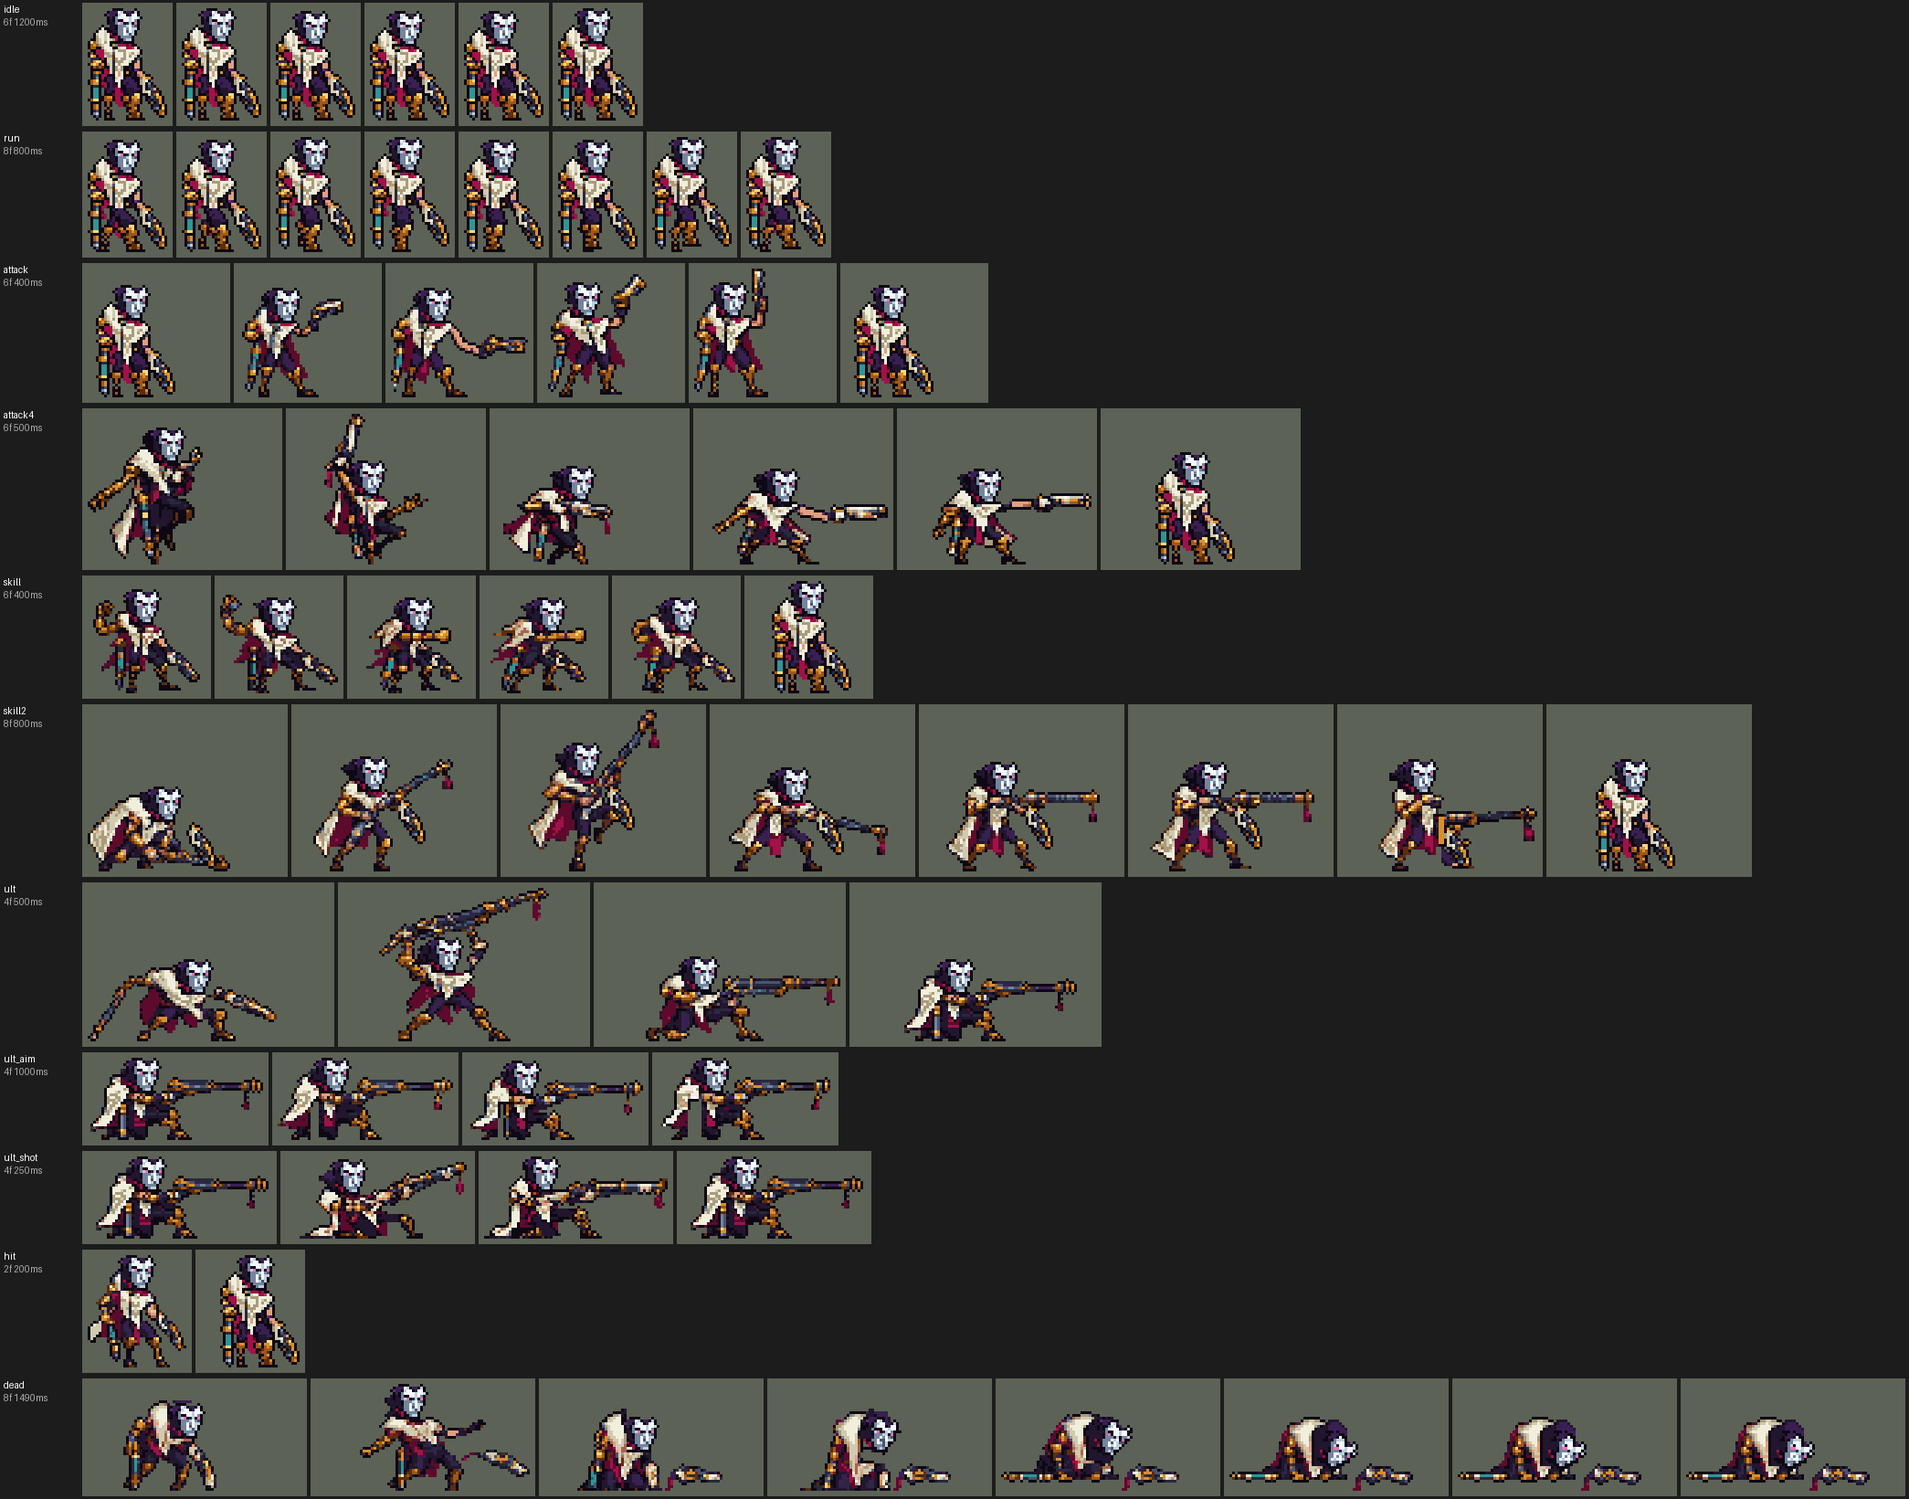
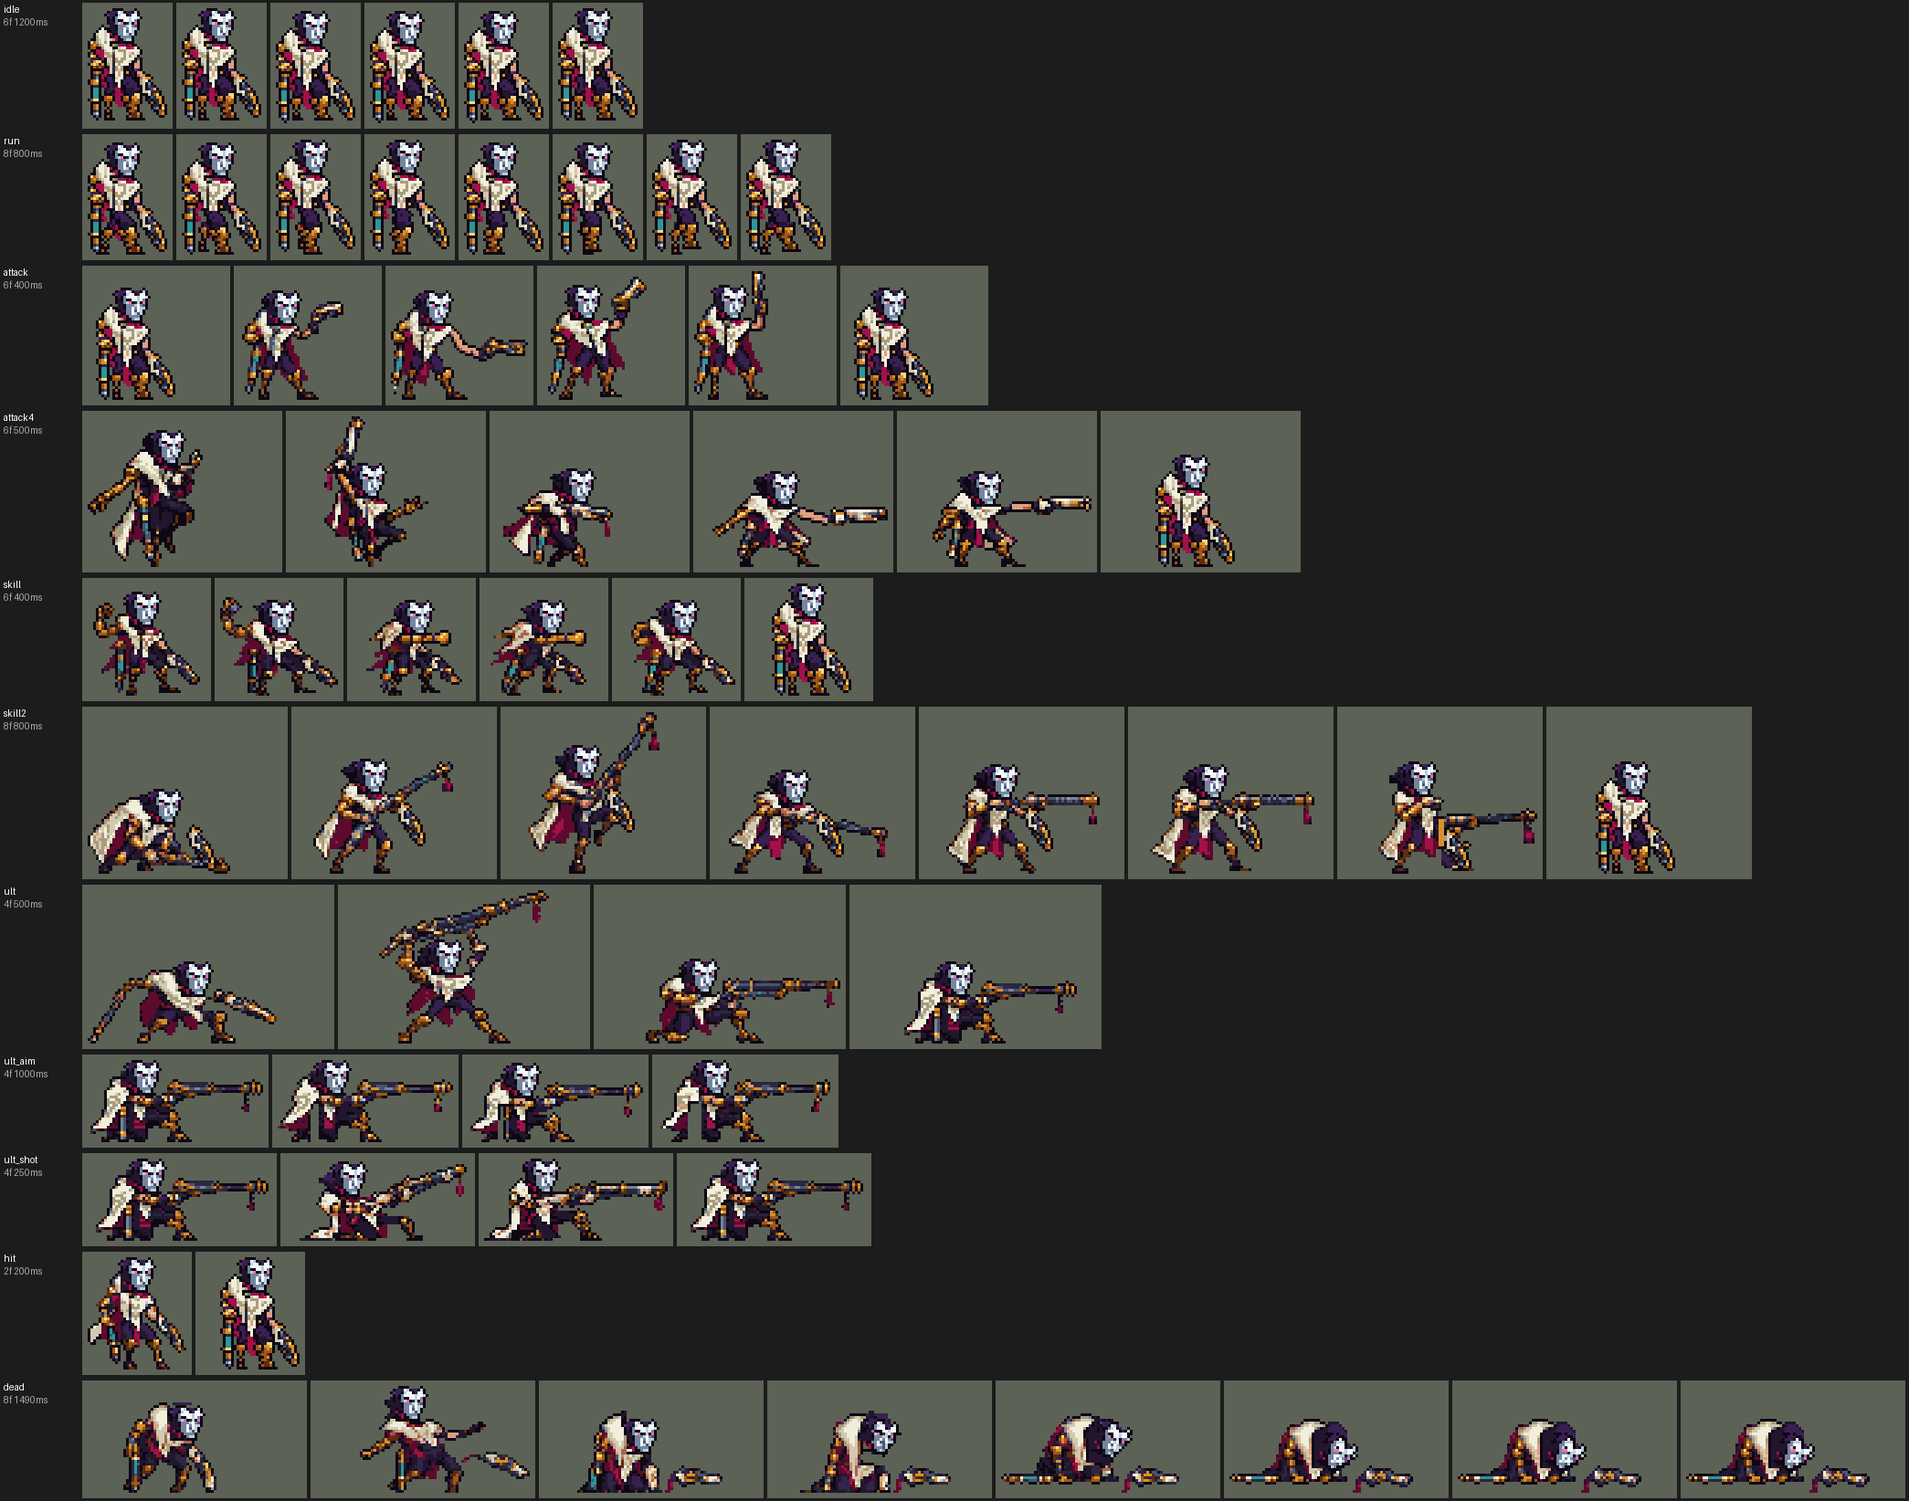
Jhin: the breathing seam in the boots, the cane and Whisper go down whole
The user: 「烬是模型上下摆动导致有点微小的变形」, then 「烬ok」. The idle's seam under the shoulders (the user's pick A of
four after the knee seam cut the cane's bands and Whisper's barrel) squeezed his arms, cape and shoulder pads a row
each breath. Now Garen's way: the seam low in the boots (pivot rows 9/10: 1 square of opacity and 3 of colour differ
under the hips), the soles stay, and import_native.py's new BOB_CARRY moves the props held in his hands down whole
(the cane left of his legs, pivot columns -11 and less; Whisper's barrel right of them, +6 and more) so no seam cuts
them. Previews rebuilt.

diff --git a/tools/art/import_native.py b/tools/art/import_native.py
@@ -354,12 +354,13 @@ BOB = {("yasuo", "idle"): (-2, [2, 3, 4]),
        # Ryze (second design, tools/art/design_ryze_v2.py): the seam in the boot shafts, rows 7/8 under the pivot (one
        # square differs); his hands hang to the belt
        ("ryze", "idle"): (7, [2, 3, 4]),
-       # Jhin: the cane and Whisper reach the ground, so a seam in the legs cuts them - at the knees the cane's bands
+       # Jhin: the cane and Whisper reach the ground, so a seam in the legs cut them - at the knees the cane's bands
        # and Whisper's slanted barrel stepped a row each breath (the user: 「上下摆动导致模型变形 盖伦就没这问题」); the
-       # seam runs under his shoulders (rows 77/78 of the design: no square of the silhouette and 12 of colour differ):
-       # the head, the collar, the shoulders and the cape's top sink a row, the hands, the cane, Whisper and the legs
-       # stay (the user's pick A of four)
-       ("jhin", "idle"): (-11, [2, 3, 4]),
+       # seam under his shoulders that followed (the user's pick A of four) squeezed his arms and cape a row (「烬是模型
+       # 上下摆动导致有点微小的变形」, 2026-10-04). Now Garen's way: the seam low in the boots (pivot rows 9/10: 1 square
+       # of opacity and 3 of colour differ, the fewest under the hips), the soles stay, and the cane and Whisper go down
+       # with his hands whole (BOB_CARRY)
+       ("jhin", "idle"): (9, [2, 3, 4]),
        # Zilean floats: the seam low in the robe under the clock's pendulum (rows 94/95 of the design: the same width,
        # 11 squares of colour differ); the hem and his dangling feet stay
        ("zilean", "idle"): (6, [2, 3, 4]),
@@ -371,6 +372,10 @@ BOB = {("yasuo", "idle"): (-2, [2, 3, 4]),
        # (4-8 squares of opacity); the seam under the knees' red bands (rows 71/72 of the cell: 4 squares of opacity
        # and 9 of colour differ) keeps the bands whole, the boots lose their top row while he breathes
        ("rakan", "idle"): (7, [2, 3, 4])}
+# (hero, tag): column ranges from the pivot (None: to the edge) that a BOB moves down whole, under its seam too - props
+# held in the hands that reach the ground, apart from the legs below the seam. Jhin: the cane left of his legs (pivot
+# columns -11 and less), Whisper's barrel right of them (+6 and more; the right sole ends at +5)
+BOB_CARRY = {("jhin", "idle"): ((None, -11), (6, None))}
 # (Aatrox had (8, [2, 3, 4]): his greatsword hangs to five rows over the soles, so every row seam over the boots cuts the
 # blade, and the seam across the boots (rows 96/97) cut their middle row 97 out - both boots squashed and their lights
 # blinked each breath (the frame audit, 2026-10-04). rig_aatrox.py now draws the breath in idle 3-5 with a seam per
@@ -724,7 +729,7 @@ def step(hero, sheet):
 
 def breathe(hero, sheet):
     """BOB and NECK: move the upper body of the listed slots down a row (after the retouch, which is drawn on the
-    frame before it moves)."""
+    frame before it moves); BOB_CARRY's columns go down whole, under the seam too."""
     for (h, tag), (y0, slots) in list(BOB.items()) + list(NECK.items()):
         if h != hero or tag not in sheet:
             continue
@@ -734,6 +739,13 @@ def breathe(hero, sheet):
             b = a.copy()
             b[1:cut + 1] = a[0:cut]
             b[0] = 0
+            if (h, tag) in BOB and (h, tag) in BOB_CARRY:
+                pc = a.shape[1] // 2
+                for lo, hi in BOB_CARRY[(h, tag)]:
+                    c0 = 0 if lo is None else max(0, pc + lo)
+                    c1 = a.shape[1] if hi is None else min(a.shape[1], pc + hi + 1)
+                    b[1:, c0:c1] = a[:-1, c0:c1]
+                    b[0, c0:c1] = 0
             sheet[tag][k] = (b, ms)
 
 

diff --git a/README.md b/README.md
@@ -94,7 +94,7 @@
 ![凯南演示：跑进场，Q 奥义！千鸟：爪子一闪，裹着电光的手里剑飞出去打中德莱厄斯，他头顶亮起一格闪电印记；连招接 W 电刃：凯南脚下炸开一圈电弧，德莱厄斯被电到，印记亮到两格；E 雷铠：原地一闪，凯南化作闪电球冲到他身前，碰到他叠满三层，德莱厄斯被两道闪电柱定住（眩晕）；两下普攻，第二下是第五次的强化手里剑（紫色电光）；盖伦走过来，R 万雷天牢引：凯南身边升起紫色雷云和金色手里剑的雷暴，每 0.5 秒劈中圈里的英雄、叠印记，第三下两人一起眩晕，德莱厄斯倒下](docs/preview/league_kennen_showcase.gif?v=1003arm)
 ![蔚演示：跑进场，Q 强能冲拳：原地蓄力，拉到身侧的拳套亮起蓝光，脚下扬起尘土冲出去，撞停德莱厄斯、把他击退，爆裂护盾在她身上亮起；连招马上接 E 透体之劲：一拳砸下，冲击波打穿德莱厄斯和他身后的盖伦；三拳，第三拳是爆弹重拳（德莱厄斯身上蓝色的弧光）；R 天霸横空烈轰锁定盖伦：脚下炸开起步的光，拖着蓝色尾迹冲过去，路上把德莱厄斯撞开、眩晕，上勾拳把盖伦打飞（一道光柱），砸地的裂纹往两边裂开，落地白送一记透体之劲](docs/preview/league_vi_showcase.gif?v=1003vi)
 ![瑞兹演示：卢锡安站在他身后，他跑进场，双手推出符文法球打德莱厄斯；Q 超负荷：蓝色的符文光弹打中他；E → W → Q 连招：紫色的法术涌动在德莱厄斯身上炸开，涌动（紫色符文绕着胸口转）也挂到他身后的盖伦身上，符文禁锢的蓝色牢笼把带涌动的德莱厄斯困住，再一发超负荷引爆两人身上的涌动（闪电劈下、紫色爆开），腰间充好的两枚符文放出、脚下起风加速；德莱厄斯和盖伦往后撤，德莱厄斯跑出射程，R 曲境折跃追过去：脚下开一个传送门，另一个开在德莱厄斯脚边，引导一秒后他和站在门里的卢锡安一起传送过去（原地一道光柱，落地符文爆发，卢锡安身上一闪），落地补的法术涌动又给德莱厄斯挂上涌动](docs/preview/league_ryze_showcase.gif?v=1005ry)
-![烬演示：跑进场，低语连开三枪（抬枪时一闪，枪口青白色的火，金色子弹）；第四枪先耍一圈枪，玫红光环从枪口转出，暴击炸开花瓣，头顶的四颗子弹开始一颗颗装上；装弹时扔出曼舞手雷，打中德莱厄斯后翻滚着落到身后的盖伦身上再炸；W 致命华彩：先把莲花扔到德莱厄斯脚下，手杖枪射出紫色光晕的长弹，他被定身（脚下的玫瑰荆棘），莲花在他脚下开花、减速，2 秒后炸成火焰；R 完美谢幕：跪地架起大炮，身边升起玫红光幕，连开四炮，第四发暴击，德莱厄斯倒下，尸体上开出一朵莲花再炸开](docs/preview/league_jhin_showcase.gif?v=1003jh)
+![烬演示：跑进场，低语连开三枪（抬枪时一闪，枪口青白色的火，金色子弹）；第四枪先耍一圈枪，玫红光环从枪口转出，暴击炸开花瓣，头顶的四颗子弹开始一颗颗装上；装弹时扔出曼舞手雷，打中德莱厄斯后翻滚着落到身后的盖伦身上再炸；W 致命华彩：先把莲花扔到德莱厄斯脚下，手杖枪射出紫色光晕的长弹，他被定身（脚下的玫瑰荆棘），莲花在他脚下开花、减速，2 秒后炸成火焰；R 完美谢幕：跪地架起大炮，身边升起玫红光幕，连开四炮，第四发暴击，德莱厄斯倒下，尸体上开出一朵莲花再炸开](docs/preview/league_jhin_showcase.gif?v=1005jh)
 ![基兰演示：卢锡安站在他身前，基兰飘进场，时光法球打德莱厄斯；Q 定时炸弹抛到德莱厄斯身上粘住（胸口的炸弹在倒计时），W 穿梭未来：身后的钟面倒转，再扔一颗，两颗炸弹一起爆，德莱厄斯和身后的盖伦被眩晕（头顶转着小金钟）；E 时光发条：德莱厄斯腰上紫色的钟圈减速，卢锡安脚下金色的钟圈加速，攒满的瓶子倒在卢锡安头上；再扔一颗炸弹粘在德莱厄斯身上，下一发法球打死他，炸弹当场爆炸、炸到盖伦；盖伦走到卢锡安身边，致命打击沉默他，R 时光倒流：基兰脚下亮起金色符文钟，卢锡安头顶挂上时光符文，盖伦转着砍他也死不了，5 秒后回溯回血](docs/preview/league_zilean_showcase.gif?v=1003zl)
 ![亚托克斯演示：他走进场砍两刀，强化普攻（赐死剑气）的剑光；暗裔利刃三段：蓄力时地上先出警示，暗影冲决在蓄力中途冲刺，再一剑劈下（剑刃边缘的火柱和击飞）；恶火束链：爪子甩出锁链缠住德莱厄斯，地上的圈 1.5 秒后把他拖回圈心；大灭：展开双翼腾空，翅膀光环，开大后的普攻和 Q 都在空中出招，击杀刷新](docs/preview/league_aatrox_showcase.gif)
 ![亚托克斯连招：Q1 → W → Q2 → Q3（锁链把人拖回圈心再吃满 Q3）；Q1 → 普攻 → Q2 → 强化普攻 → Q3；R → Q1 → Q2 → Q3（空中出招，击杀刷新大招）](docs/preview/league_aatrox_combos.gif)
@@ -2074,7 +2074,7 @@ python tools/art/preview_jhin.py
 
 - 原画和造型：Codex 画了 A、B 两张原画，用户选 A（英雄联盟的待机）。造型 Codex 自己删到 41 行的 A（头 13 行）、B（头 11 行）丢了细节（裸露的右臂变成紫色、低语断开），`design_jhin.py` 把它的生图草稿 A 按自己的格子读回（`scripts/regrid.py`，62 × 44），颜色按 CIELAB 归到 Codex 的 24 色（按 RGB 归，披风的褐色花纹会变成肤色），两只眼睛用粉色，整行整列删到 41 行（脸、手杖、眼睛和低语的行列不删），一层描边。五个候选里用户选「新41 头13」。进游戏后用户：「右手的模型看起来有点不自然」——照英雄联盟的待机描：原稿的右臂是一截肤色短条直接连着低语的枪柄，旁边透出一道地面；补上紫色护腕和握住枪柄的手，那道缝是他身体侧面的深紫色（`design_jhin.py` 的 `HAND`）。
 - 动作：Codex 画了 11 条。用户：「奇怪的地方你帮我修复 比如走路的步伐我看到已经有点奇怪了 codex太笨了」。`rig_jhin.py`：走路按造型重建——上半身（头、披风、两臂、手杖和低语）是造型本身，迈步时高一行；两条腿是造型自己的腿，各绕胯部切变，脚移动 1–4 列，摆动的脚抬 1–2 行，两腿比站姿靠拢一些，近处的脚在一个周期里两次从远处那只的前面换到后面（交叉步），两脚最多相距 12 列（用户：「你改的很不错 走路」）。其余是 Codex 的动作条加修补（`FIX`，每处是一段字符画）：普攻开枪那帧原来下垂的手臂没擦掉，和平伸的小臂连成一根悬空的肤色棍子；第一次改成上臂从肩膀垂到腰边、小臂平伸握枪，手肘成了直角（用户：「手臂怎么90度角？看着一股怪味」），照英雄联盟的开枪动作重描：上臂从肩膀斜着往前下方伸，手肘微弯，小臂几乎水平接到枪柄，手前面一圈紫色护腕（两个方案里用户选手肘微弯，另一个是整条直臂），枪的位置不动；第四枪举枪的手臂原来 16 行长（造型的手臂 6 行），枪、手和穗子下移 7 行；第四枪开枪的小臂是一条没有描边的金色亮线，改成带描边的肤色手臂，从肩膀到枪柄一条直线（肩膀处原来还立着下垂手臂的头两行，也是个直角）；Q 的金色手臂原来横穿 23 格，改成 2 行的小臂、紫色护腕和 4 行的金拳头；死亡时头顶漂着的碎片去掉，第 3–4 帧被压成两行的低语换成第 5 帧那把整枪，飞出去的低语往回 5 格；大炮的穗子接回炮管。之后用户：「死亡时候还有模型缺失」——跪伏的第 5–8 帧披风和低下的头之间是空的（地面透过来），补成身体的深紫色；一样透出地面的细缝（兜帽和面具之间、手臂和身体之间、大炮下面、死亡第 1、3、4 帧）也补上，包括只有导入补描边后才封口的（`GAP`）；兜帽后面每个动作都有的 3 + 1 格小洞补成描边。普攻、第四枪、Q 的收招帧和待机就是造型本身，从造型重画（右手跟着改）。
-- 导入：待机 6 帧都用造型，第 3–5 帧从肩膀下面往上下沉一格呼吸（`BOB`，接缝在造型的第 77/78 行）：原来接缝在膝盖，手杖的箍和斜着的低语每次呼吸都错开一行（用户：「上下摆动导致模型变形 盖伦就没这问题」），四个方案里用户选肩膀；按眼睛的粉色定头的位置（`EYES`）；描边补齐（`COMPLETE`）。
+- 导入：待机 6 帧都用造型，第 3–5 帧下沉一格呼吸（`BOB`）：接缝最早在膝盖，手杖的箍和斜着的低语每次呼吸都错开一行（用户：「上下摆动导致模型变形 盖伦就没这问题」），四个方案里用户选了肩膀下面；肩膀的接缝又把手臂、披风和肩甲压扁一行（2026-10-04，用户：「烬是模型上下摆动导致有点微小的变形」），改成盖伦的做法：接缝在靴子里（站位点下 9/10 行：腿上只有 1 格不透明度、3 格颜色不同），鞋底那一行不动，手杖和低语跟着手整根下沉、不再被切（`BOB_CARRY`：站位点左边 −11 列以外、右边 +6 列以外整列一起动）；按眼睛的粉色定头的位置（`EYES`）；描边补齐（`COMPLETE`）。
 - 特效用 Codex 画的 27 张（146 帧，生图原稿整理成 8 倍方格，`import_jhin.py --raw` 同瑞兹：每个游戏像素取覆盖的原稿像素里最多的颜色，四分之一以上不透明才画，颜色归到包里给每张的色阶——金、玫红、紫、青、手雷的铁灰、烟——光效外圈最暗的一档去掉，手雷罐和莲花保留描边；四种子弹上下对称，游戏按飞行方向转）。位置：抬枪的闪光在低语上 (19, −21)，枪口火焰在普攻 (30, −7)、第四枪 (35, −8)、W (39, −9)、R (39, −8)（Codex 把枪口火的白芯登记在格子左边中点，按它对上），Q 的闪光在金拳头 (10, −10)，装弹的四颗子弹在兜帽上方 (−2, −36)，命中在上半身 (0, −8)，定身、莲花、减速在脚底。R 的开幕光幕 Codex 画成两根高光柱，按宽 36 会有 72 行高，改按身高 40 行。时长：子弹第一 tick 空着（出生那一 tick 画面朝上），飞行帧铺满最长飞行的两倍，最后一帧留 1 秒；装弹 2.2 秒；定身保持到 100 tick；莲花开花的 4–8 帧循环到 2 秒后的爆炸。之后用户：「攻击特效不太对」——抬枪的闪光在枪还垂着时就出现，枪口火持续 180–300 ms，枪一往上抬，火还挂在原来枪口的位置；现在抬枪闪光只在举枪那帧（51 ms），枪口火缩到 83–150 ms，普攻、W、R 开枪的那帧加长、前后帧缩短（`rig_jhin.py` 的 `RETIME`，每个动作总时长不变），子弹飞过枪口前不画（普攻、第四枪 4 tick，W、R 2 tick）。
 
 逐帧预览：[`docs/preview/league_jhin_frames.png`](docs/preview/league_jhin_frames.png)，特效：[`docs/preview/league_jhin_effects.png`](docs/preview/league_jhin_effects.png)。
